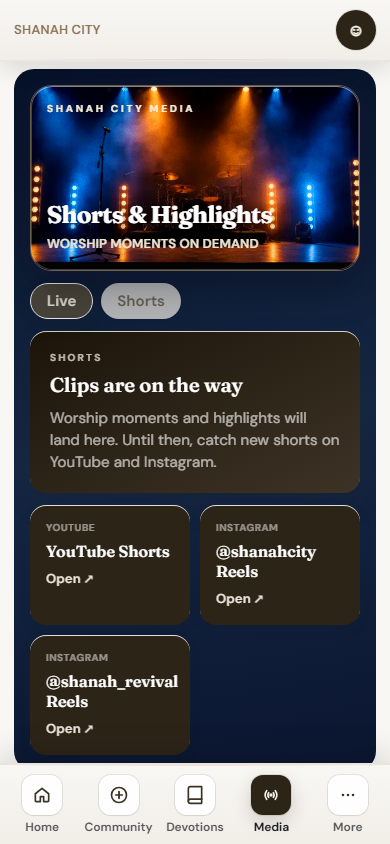
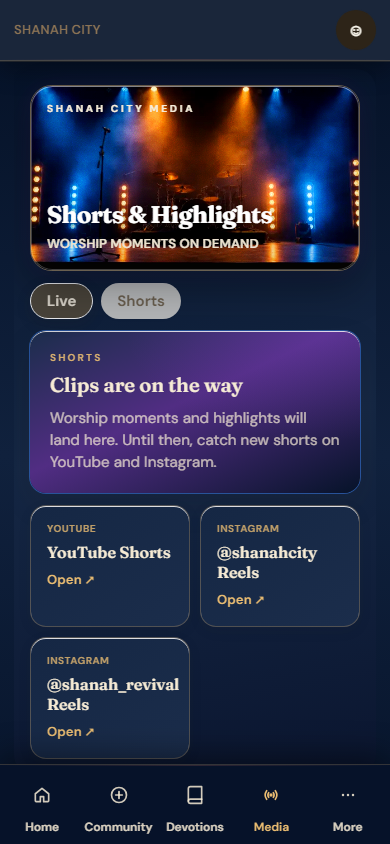
Premium V4 worship/media visual QA fixes and refreshed screenshots.
Branded offline live stage, cinematic mobile chrome, navy sermon/shorts styling, and updated Playwright captures.

diff --git a/src/app/premium-v4-cinematic-chrome.css b/src/app/premium-v4-cinematic-chrome.css
@@ -1,0 +1,69 @@
+/* Premium V4 cinematic shell — mobile header/nav on live, sermons, community */
+
+body.premium-v4-cinematic-active {
+  background: #061329 !important;
+}
+
+body.premium-v4-cinematic-active .app-main {
+  background: linear-gradient(180deg, #061329 0%, #10213d 48%, #061329 100%);
+}
+
+body.premium-v4-cinematic-active .mobile-app-header,
+body.premium-v4-cinematic-active[data-shell="mobile"] .mobile-app-header {
+  background: rgba(6, 19, 41, 0.92) !important;
+  border-bottom-color: rgba(233, 188, 114, 0.22) !important;
+  backdrop-filter: blur(16px);
+  box-shadow: 0 1px 0 rgba(233, 188, 114, 0.12), 0 8px 24px rgba(0, 0, 0, 0.35) !important;
+}
+
+body.premium-v4-cinematic-active .mobile-app-header .text-night-900,
+body.premium-v4-cinematic-active .mobile-app-header .text-night-700,
+body.premium-v4-cinematic-active .mobile-app-header .text-night-600 {
+  color: #f6ebd5 !important;
+}
+
+body.premium-v4-cinematic-active .app-mobile-bottom-nav,
+body.premium-v4-cinematic-active[data-shell="mobile"] .mobile-bottom-nav {
+  background: rgba(6, 19, 41, 0.97) !important;
+  border-top: 1px solid rgba(233, 188, 114, 0.2) !important;
+  box-shadow: 0 -8px 32px rgba(0, 0, 0, 0.45) !important;
+}
+
+body.premium-v4-cinematic-active[data-shell="mobile"] .mobile-bottom-nav::after {
+  background: rgba(6, 19, 41, 0.97) !important;
+}
+
+body.premium-v4-cinematic-active[data-shell="mobile"] .mobile-bottom-nav .mobile-nav-link,
+body.premium-v4-cinematic-active[data-shell="mobile"] .mobile-bottom-nav .mobile-nav-link.text-night-700,
+body.premium-v4-cinematic-active[data-shell="mobile"] .mobile-bottom-nav .mobile-nav-link.text-night-900 {
+  color: #f6ebd5e0 !important;
+}
+
+body.premium-v4-cinematic-active[data-shell="mobile"] .mobile-bottom-nav .mobile-nav-link.is-active,
+body.premium-v4-cinematic-active[data-shell="mobile"] .mobile-bottom-nav .mobile-nav-link.is-active.text-night-900 {
+  color: #e9bc72 !important;
+}
+
+body.premium-v4-cinematic-active[data-shell="mobile"] .mobile-bottom-nav .mobile-nav-label {
+  color: inherit !important;
+  opacity: 1 !important;
+}
+
+body.premium-v4-cinematic-active[data-shell="mobile"] .mobile-nav-icon-shell,
+body.premium-v4-cinematic-active[data-shell="mobile"] .mobile-nav-icon-shell[class*="bg-"] {
+  background: transparent !important;
+  background-color: transparent !important;
+  box-shadow: none !important;
+  --tw-ring-shadow: 0 0 #0000 !important;
+  --tw-shadow: 0 0 #0000 !important;
+  border: none !important;
+  color: inherit !important;
+}
+
+body.premium-v4-cinematic-active[data-shell="mobile"] .mobile-nav-link.is-active .mobile-nav-icon-shell {
+  color: #e9bc72 !important;
+}
+
+body.premium-v4-cinematic-active[data-shell="mobile"] .mobile-nav-link:not(.is-active) .mobile-nav-icon-shell {
+  color: #f6ebd5d9 !important;
+}

diff --git a/src/components/media/MediaClipsGrid.tsx b/src/components/media/MediaClipsGrid.tsx
@@ -130,12 +130,12 @@ export function MediaClipsGrid({
   if (clips.length === 0) {
     return (
       <div className="space-y-3">
-        <div className="overflow-hidden rounded-2xl bg-gradient-to-br from-night-950 via-night-900 to-night-800 p-5 text-white shadow-app-lg ring-1 ring-night-900/10">
-          <p className="text-[10px] font-bold uppercase tracking-[0.22em] text-sand-300/80">
+        <div className="media-clips-v4-empty overflow-hidden rounded-2xl p-5 shadow-app-lg ring-1 ring-[#e9bc72]/28">
+          <p className="text-[10px] font-bold uppercase tracking-[0.22em] text-[#e9bc72]/90">
             Shorts
           </p>
-          <h3 className="mt-1.5 font-display text-xl font-semibold">Clips are on the way</h3>
-          <p className="mt-2 text-sm leading-snug text-white/65">
+          <h3 className="mt-1.5 font-display text-xl font-semibold text-[#f6ebd5]">Clips are on the way</h3>
+          <p className="mt-2 text-sm leading-snug text-[#f6ebd5]/75">
             Worship moments and highlights will land here. Until then, catch new shorts on YouTube
             and Instagram.
           </p>
@@ -145,13 +145,15 @@ export function MediaClipsGrid({
             <ExternalLink
               key={link.id}
               href={link.url}
-              className="rounded-2xl bg-night-900 p-4 text-white shadow-app-md transition active:scale-[0.98]"
+              className="media-clips-v4-browse-link rounded-2xl p-4 shadow-app-md transition active:scale-[0.98]"
             >
-              <p className="text-[10px] font-bold uppercase tracking-wider text-white/50">
+              <p className="text-[10px] font-bold uppercase tracking-wider text-[#e9bc72]/80">
                 {link.platform}
               </p>
-              <p className="mt-1.5 font-display text-base font-semibold leading-tight">{link.label}</p>
-              <p className="mt-2 text-xs font-semibold text-sand-300">Open ↗</p>
+              <p className="mt-1.5 font-display text-base font-semibold leading-tight text-[#f6ebd5]">
+                {link.label}
+              </p>
+              <p className="mt-2 text-xs font-semibold text-[#e9bc72]">Open ↗</p>
             </ExternalLink>
           ))}
         </div>
@@ -182,7 +184,7 @@ export function MediaClipsGrid({
       ) : null}
 
       <div>
-        <p className="mb-2 px-0.5 text-[11px] font-bold uppercase tracking-[0.22em] text-night-500">
+        <p className="media-clips-v4-more-label mb-2 px-0.5 text-[11px] font-bold uppercase tracking-[0.22em] text-night-500">
           More shorts
         </p>
         <div className={`grid gap-2.5 ${isMobile ? "grid-cols-2" : "grid-cols-2 sm:grid-cols-3 lg:grid-cols-4"}`}>

diff --git a/src/components/live/LiveStreamBrandedOffline.tsx b/src/components/live/LiveStreamBrandedOffline.tsx
@@ -1,0 +1,58 @@
+"use client";
+
+import Image from "next/image";
+import { StreamPreviewImage } from "@/components/live/StreamPreviewImage";
+import { brandLogos, liveStream } from "@/lib/site";
+import type { StreamPreview } from "@/lib/types";
+import { ExternalLink } from "@/components/ui";
+
+type LiveStreamBrandedOfflineProps = {
+  preview: StreamPreview;
+  compact?: boolean;
+};
+
+export function LiveStreamBrandedOffline({ preview, compact }: LiveStreamBrandedOfflineProps) {
+  return (
+    <div
+      className={`relative flex aspect-video w-full flex-col items-center justify-center overflow-hidden bg-[#061329] text-center ${
+        compact ? "px-4 py-6" : "px-6 py-8"
+      }`}
+    >
+      <StreamPreviewImage
+        preview={preview}
+        alt=""
+        className="absolute inset-0 h-full w-full object-cover opacity-35"
+      />
+      <div
+        className="absolute inset-0 bg-gradient-to-br from-[#061329]/92 via-[#512d83]/55 to-[#061329]/95"
+        aria-hidden
+      />
+      <div className="relative z-[1] flex max-w-sm flex-col items-center">
+        <Image
+          src={brandLogos.default}
+          alt="Shanah City"
+          width={120}
+          height={40}
+          className="h-9 w-auto drop-shadow-md"
+        />
+        <p className="mt-4 text-[10px] font-bold uppercase tracking-[0.24em] text-[#e9bc72]">
+          Live worship
+        </p>
+        <p className={`mt-2 font-display font-semibold text-[#f6ebd5] ${compact ? "text-lg" : "text-xl"}`}>
+          We&apos;re between broadcasts
+        </p>
+        <p className="mt-2 text-sm leading-relaxed text-[#f6ebd5]/80">
+          Join us on {preview.platform} for the next service, or turn on notifications below when we
+          go live.
+        </p>
+        <p className="mt-3 text-xs font-medium text-[#e9bc72]/90">{liveStream.scheduledAt}</p>
+        <ExternalLink
+          href={preview.url}
+          className="mt-5 inline-flex rounded-xl border border-[#e9bc72]/45 bg-gradient-to-r from-[#512d83] to-[#1b2d4b] px-5 py-2.5 text-sm font-semibold text-white shadow-lg transition hover:border-[#e9bc72]/70"
+        >
+          Watch on {preview.platform}
+        </ExternalLink>
+      </div>
+    </div>
+  );
+}

diff --git a/src/components/live/LiveStreamPlayer.tsx b/src/components/live/LiveStreamPlayer.tsx
@@ -3,18 +3,48 @@
 import type { StreamPreview } from "@/lib/types";
 import { LiveVideoPlayer } from "@/components/live/LiveVideoPlayer";
 import { StreamPreviewImage } from "@/components/live/StreamPreviewImage";
-import { canPlayInApp } from "@/lib/live-config";
+import { LiveStreamBrandedOffline } from "@/components/live/LiveStreamBrandedOffline";
+import { canPlayInApp, shouldUseInAppEmbed } from "@/lib/live-config";
 import { ExternalLink } from "@/components/ui";
 
 type LiveStreamPlayerProps = {
   preview: StreamPreview;
   subtitle?: string;
   compact?: boolean;
+  /** When false, channel-level embeds are replaced with a branded offline stage. */
+  streamLive?: boolean;
 };
 
-export function LiveStreamPlayer({ preview, subtitle, compact }: LiveStreamPlayerProps) {
-  const player = canPlayInApp(preview) ? (
+export function LiveStreamPlayer({
+  preview,
+  subtitle,
+  compact,
+  streamLive = true,
+}: LiveStreamPlayerProps) {
+  const useEmbed = shouldUseInAppEmbed(preview, { streamLive });
+
+  const player = useEmbed ? (
     <LiveVideoPlayer preview={preview} />
+  ) : preview.platform === "Instagram" ? (
+    <div className="relative aspect-video bg-night-900">
+      <StreamPreviewImage preview={preview} alt={preview.label} />
+      <div className="absolute inset-0 flex flex-col items-center justify-center bg-night-950/55 px-6 text-center text-white">
+        <p className={`font-display font-semibold ${compact ? "text-xl" : "text-2xl"}`}>
+          {preview.label}
+        </p>
+        <p className="mt-2 max-w-sm text-sm text-white/80">
+          Catch highlights and stories on Instagram — best in the app.
+        </p>
+        <ExternalLink
+          href={preview.url}
+          className="mt-5 inline-flex rounded-xl bg-white px-5 py-2.5 text-sm font-semibold text-night-900 transition hover:bg-sand-100"
+        >
+          Open Instagram
+        </ExternalLink>
+      </div>
+    </div>
+  ) : canPlayInApp(preview) ? (
+    <LiveStreamBrandedOffline preview={preview} compact={compact} />
   ) : (
     <div className="relative aspect-video bg-night-900">
       <StreamPreviewImage preview={preview} alt={preview.label} />

diff --git a/src/app/premium-v4-media.css b/src/app/premium-v4-media.css
@@ -96,6 +96,44 @@
   color: #f6ebd5 !important;
   border: 1px solid rgba(233, 188, 114, .25);
 }
+.sc-v4-sermons .sc-v4-sermon-feature > div {
+  background:
+    radial-gradient(ellipse at 100% 0%, rgba(139, 77, 216, .22), transparent 50%),
+  linear-gradient(145deg, #1b2d4b, #512d83 55%, #061329) !important;
+  color: #f6ebd5 !important;
+  border: 1px solid rgba(233, 188, 114, .32);
+  box-shadow: 0 16px 42px rgba(0, 0, 0, .32);
+}
+.sc-v4-sermons .sc-v4-sermon-feature h2 {
+  font-size: clamp(1.125rem, 4.6vw, 1.625rem) !important;
+  line-height: 1.25;
+  color: #f6ebd5 !important;
+}
+.sc-v4-sermons .sc-v4-sermon-feature .text-sand-400,
+.sc-v4-sermons .sc-v4-sermon-feature .text-sand-100,
+.sc-v4-sermons .sc-v4-sermon-feature .text-sand-300 {
+  color: #f6ebd5 !important;
+}
+.sc-v4-sermons .sc-v4-sermon-feature .text-sand-300 {
+  opacity: .82;
+}
+.sc-v4-sermons .sc-v4-sermon-feature a.rounded-xl.bg-sand-100 {
+  background: linear-gradient(110deg, #e9bc72, #c18bda) !important;
+  color: #061329 !important;
+}
+.sc-v4-media .media-clips-v4-empty {
+  background:
+    radial-gradient(ellipse at 90% 0%, rgba(139, 77, 216, .22), transparent 48%),
+    linear-gradient(155deg, #1b2d4b, #512d83 45%, #061329);
+}
+.sc-v4-media .media-clips-v4-browse-link {
+  background: linear-gradient(145deg, #152744, #1b2d4b);
+  border: 1px solid rgba(233, 188, 114, .28);
+  color: #f6ebd5;
+}
+.sc-v4-media .media-clips-v4-more-label {
+  color: #f6ebd5 !important;
+}
 @media (min-width: 768px) {
   .sc-v4-media, .sc-v4-sermons { padding: 1.5rem; border-radius: 1.5rem; }
 }

diff --git a/src/components/design/PremiumV4CinematicChrome.tsx b/src/components/design/PremiumV4CinematicChrome.tsx
@@ -1,0 +1,25 @@
+"use client";
+
+import { useLayoutEffect } from "react";
+import { usePathname } from "next/navigation";
+import { useAppShell } from "@/components/app/AppShellContext";
+import { premiumV4ThemeForPath } from "@/lib/premium-v4-design-system";
+
+const BODY_CLASS = "premium-v4-cinematic-active";
+
+/** Mobile header + bottom nav on V4 cinematic routes (live, sermons, community). */
+export function PremiumV4CinematicChrome() {
+  const pathname = usePathname();
+  const { isMobileApp } = useAppShell();
+  const active = isMobileApp && premiumV4ThemeForPath(pathname) === "cinematic";
+
+  useLayoutEffect(() => {
+    if (typeof document === "undefined") return;
+    document.body.classList.toggle(BODY_CLASS, active);
+    return () => {
+      document.body.classList.remove(BODY_CLASS);
+    };
+  }, [active]);
+
+  return null;
+}

diff --git a/src/lib/live-config.ts b/src/lib/live-config.ts
@@ -34,6 +34,28 @@ export function canPlayInApp(preview: {
   return false;
 }
 
+/** Avoid channel live embeds when offline — they show “This video is unavailable.” */
+export function shouldUseInAppEmbed(
+  preview: {
+    id: string;
+    platform: string;
+    videoId?: string;
+    embedUrl?: string;
+  },
+  options?: { streamLive?: boolean },
+) {
+  if (!canPlayInApp(preview)) return false;
+  const streamLive = options?.streamLive ?? true;
+  if (preview.videoId) return true;
+  if (preview.platform === "YouTube" && liveVideoConfig.youtubeChannelId) {
+    return streamLive;
+  }
+  if (preview.platform === "Facebook" && preview.embedUrl) {
+    return streamLive;
+  }
+  return Boolean(getInAppEmbedUrl(preview));
+}
+
 export function getInAppEmbedUrl(preview: {
   id: string;
   platform: string;

diff --git a/src/components/app/AppShell.tsx b/src/components/app/AppShell.tsx
@@ -28,6 +28,7 @@ import { BackgroundPlaybackProvider } from "@/components/app/BackgroundPlaybackP
 import { DevotionPlayerProvider } from "@/components/devotions/DevotionPlayerProvider";
 import { SermonPlayerProvider } from "@/components/sermons/SermonPlayerProvider";
 import { TopBar } from "@/components/app/TopBar";
+import { PremiumV4CinematicChrome } from "@/components/design/PremiumV4CinematicChrome";
 
 
 
@@ -49,6 +50,7 @@ export function AppShell({ children }: { children: React.ReactNode }) {
           <BackgroundPlaybackProvider>
 
           <NativeAppBoot />
+          <PremiumV4CinematicChrome />
           <AppRefreshBridge />
           <AppNotificationBadgeSync />
 

diff --git a/src/components/media/MediaHub.tsx b/src/components/media/MediaHub.tsx
@@ -1,6 +1,6 @@
 "use client";
 
-import { useEffect, useMemo, useState } from "react";
+import { useEffect, useLayoutEffect, useMemo, useState } from "react";
 import { useSearchParams } from "next/navigation";
 import { useAppShell } from "@/components/app/AppShellContext";
 import { MediaClipUploadPanel } from "@/components/media/MediaClipUploadPanel";
@@ -73,7 +73,7 @@ export function MediaHub({ clips, browseLinks, churchImages }: MediaHubProps) {
     setTab(deepLink.tab);
   }, [deepLink.tab]);
 
-  useEffect(() => {
+  useLayoutEffect(() => {
     setLayoutReady(true);
   }, []);
 

diff --git a/scripts/premium-v4-worship-media.test.ts b/scripts/premium-v4-worship-media.test.ts
@@ -11,6 +11,8 @@ const sermons = read("src/app/sermons/page.tsx");
 const archive = read("src/components/sermons/SermonsArchiveSection.tsx");
 
 assert.match(globals, /@import "\.\/premium-v4-media\.css";/);
+assert.match(globals, /@import "\.\/premium-v4-cinematic-chrome\.css";/);
+assert.match(read("src/components/media/MediaLiveStage.tsx"), /streamLive=\{showAsLive\}/);
 assert.match(css, /\.sc-v4-media/);
 assert.match(css, /\.sc-v4-sermons/);
 assert.doesNotMatch(css, /^\s*(?:body|html|\.app-main)\s*\{/m, "no app-wide override");

diff --git a/src/components/media/MediaLiveStage.tsx b/src/components/media/MediaLiveStage.tsx
@@ -88,7 +88,7 @@ export function MediaLiveStage({ layout = "default" }: MediaLiveStageProps) {
               />
             </div>
           ) : (
-            <LiveStreamPlayer preview={stagePreview} compact />
+            <LiveStreamPlayer preview={stagePreview} compact streamLive={showAsLive} />
           )}
           {!showStageCountdown ? (
             <div className="pointer-events-none absolute inset-0 bg-gradient-to-t from-night-950/50 via-transparent to-night-950/25" />

diff --git a/src/app/globals.css b/src/app/globals.css
@@ -6,6 +6,7 @@
 @import "./premium-home-v4.css";
 @import "./premium-v4-system.css";
 @import "./premium-v4-media.css";
+@import "./premium-v4-cinematic-chrome.css";
 
 @layer base {
   :root {
